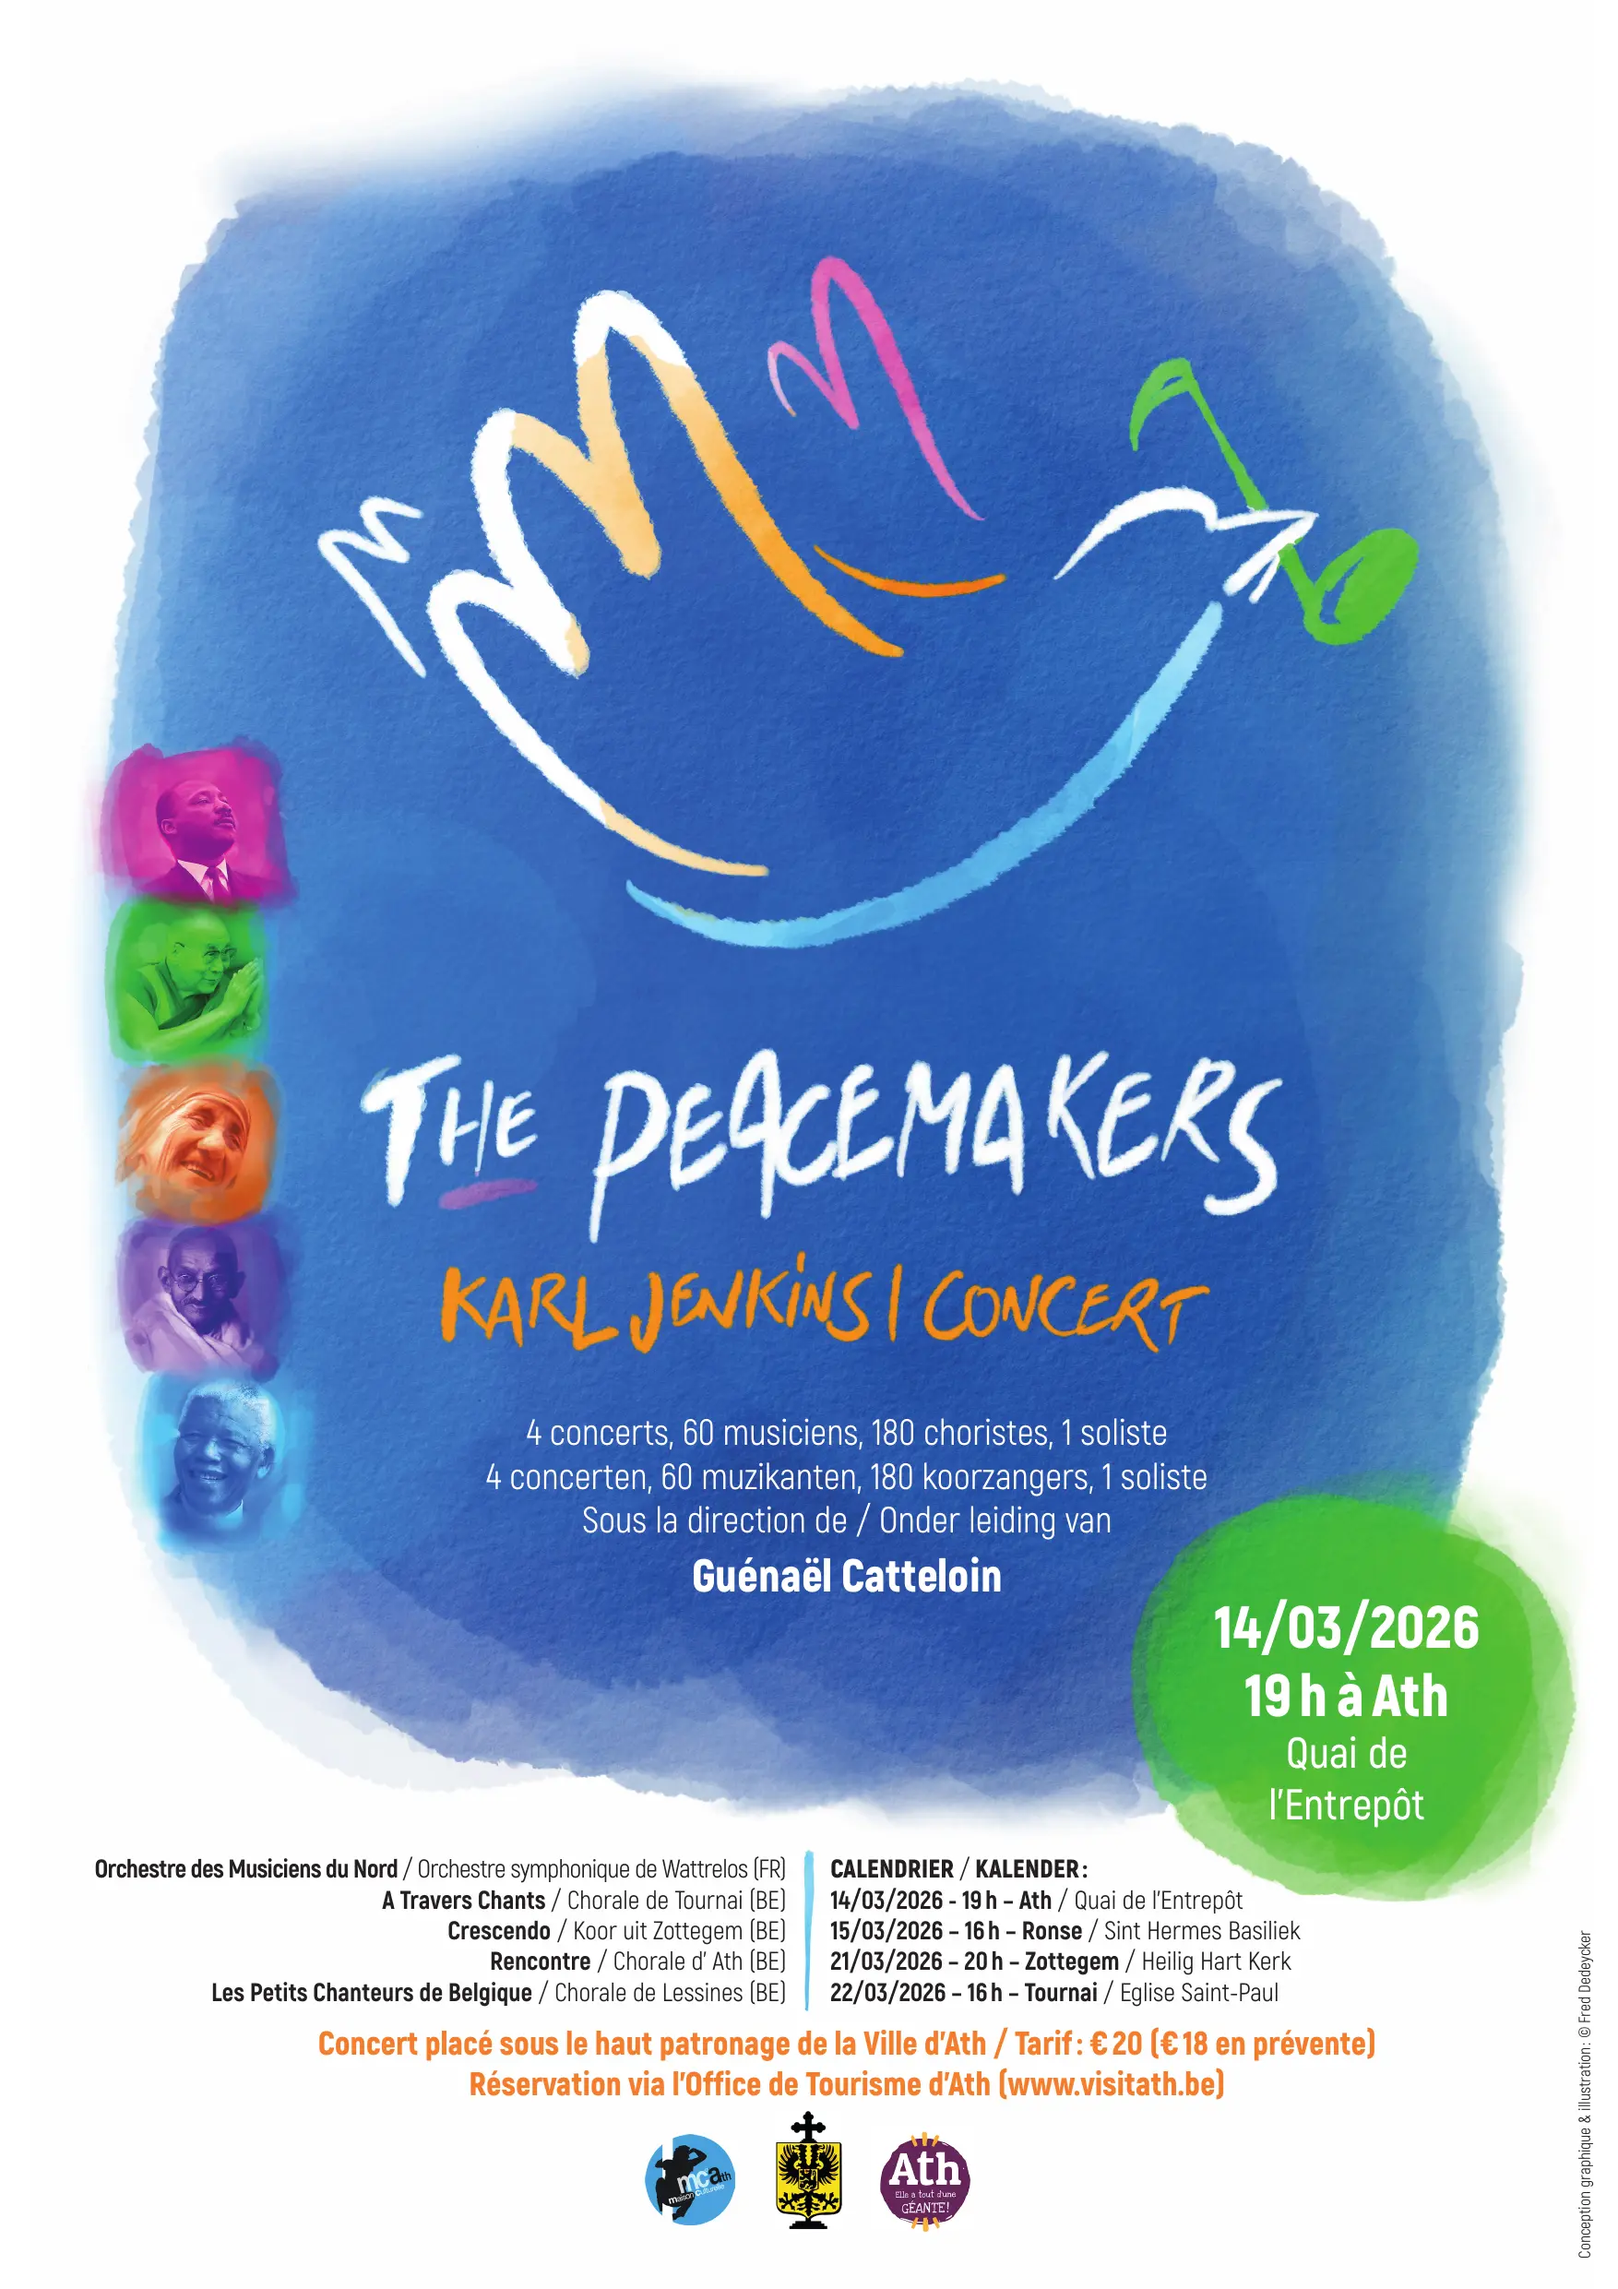
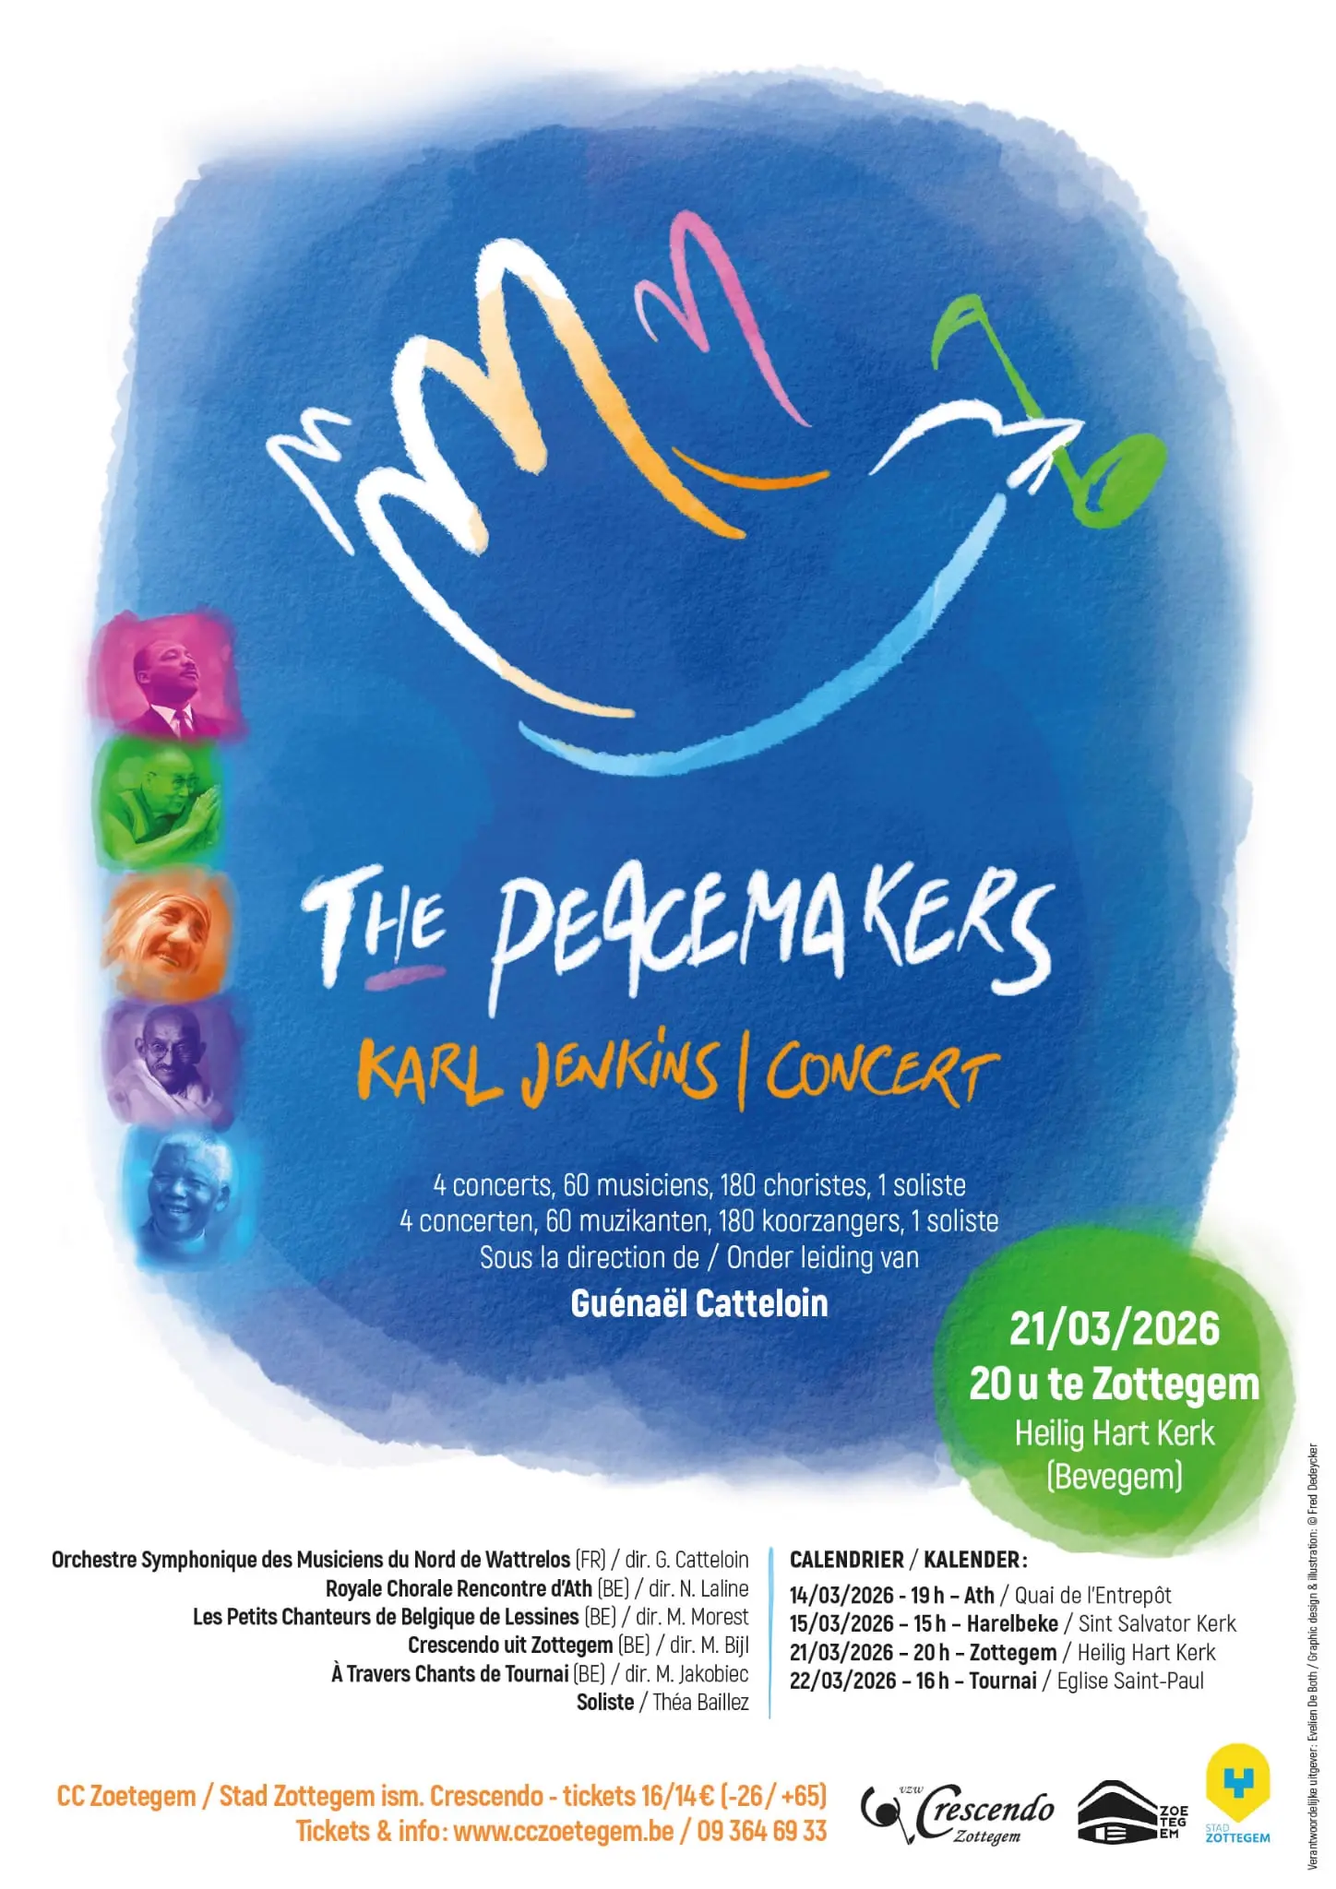
Feature/concert jenkins (#33)
* Added concert "The Peacemakers"

* The Peacemakers: Updated link to cczoetegem. Updated flyer. Corrected
location to Harelbeke

diff --git a/_events/2026-03-21-the-peacemakers.md b/_events/2026-03-21-the-peacemakers.md
@@ -19,13 +19,13 @@ Jenkins gebruikt rijke orkestraties en suggestieve harmonieën om het volledige 
 
 *'The Peacemakers'* wordt viervoudig uitgevoerd:
 - **14/03/2026** - **19u**: Quai de l'Entrepôt, **Ath**
-- **15/03/2026** - **16u**: Sint-Hermesbasiliek, **Ronse**
+- **15/03/2026** - **15u**: Sint-Salvatorkerk, **Harelbeke**
 - **21/03/2026** - **20u**: Heilig Hartkerk, **Zottegem**
 - **22/03/2026** - **16u**: Sint-Pauluskerk, **Doornik**
 
 <br>
 
-Tickets en info: [www.uitinvlaanderen.be](https://www.uitinvlaanderen.be/agenda/e/karl-jenkins-the-peacemakers/bbd78940-e20c-4bf8-baa5-0f1ba2d05af8)
+Tickets en info: [www.cczoetegem.be](https://www.cczoetegem.be/programma/karl-jenkins-the-peacemakers)
 
 <br>
 
